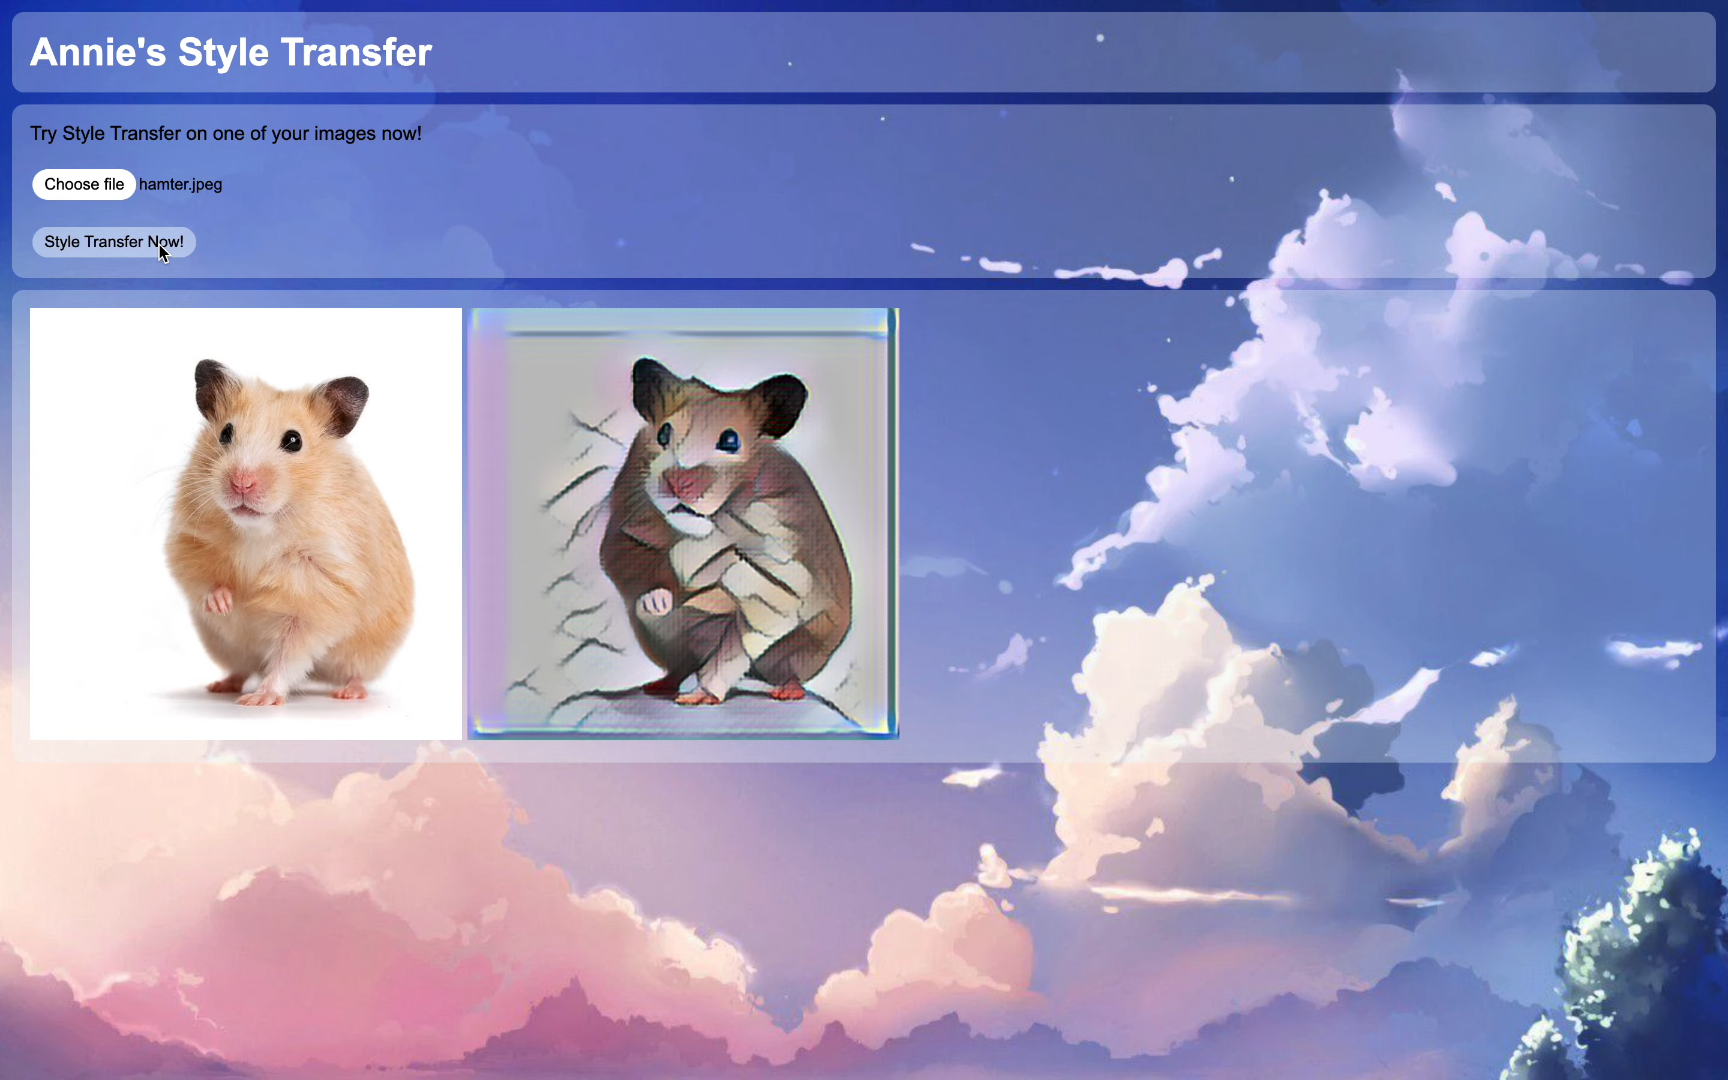
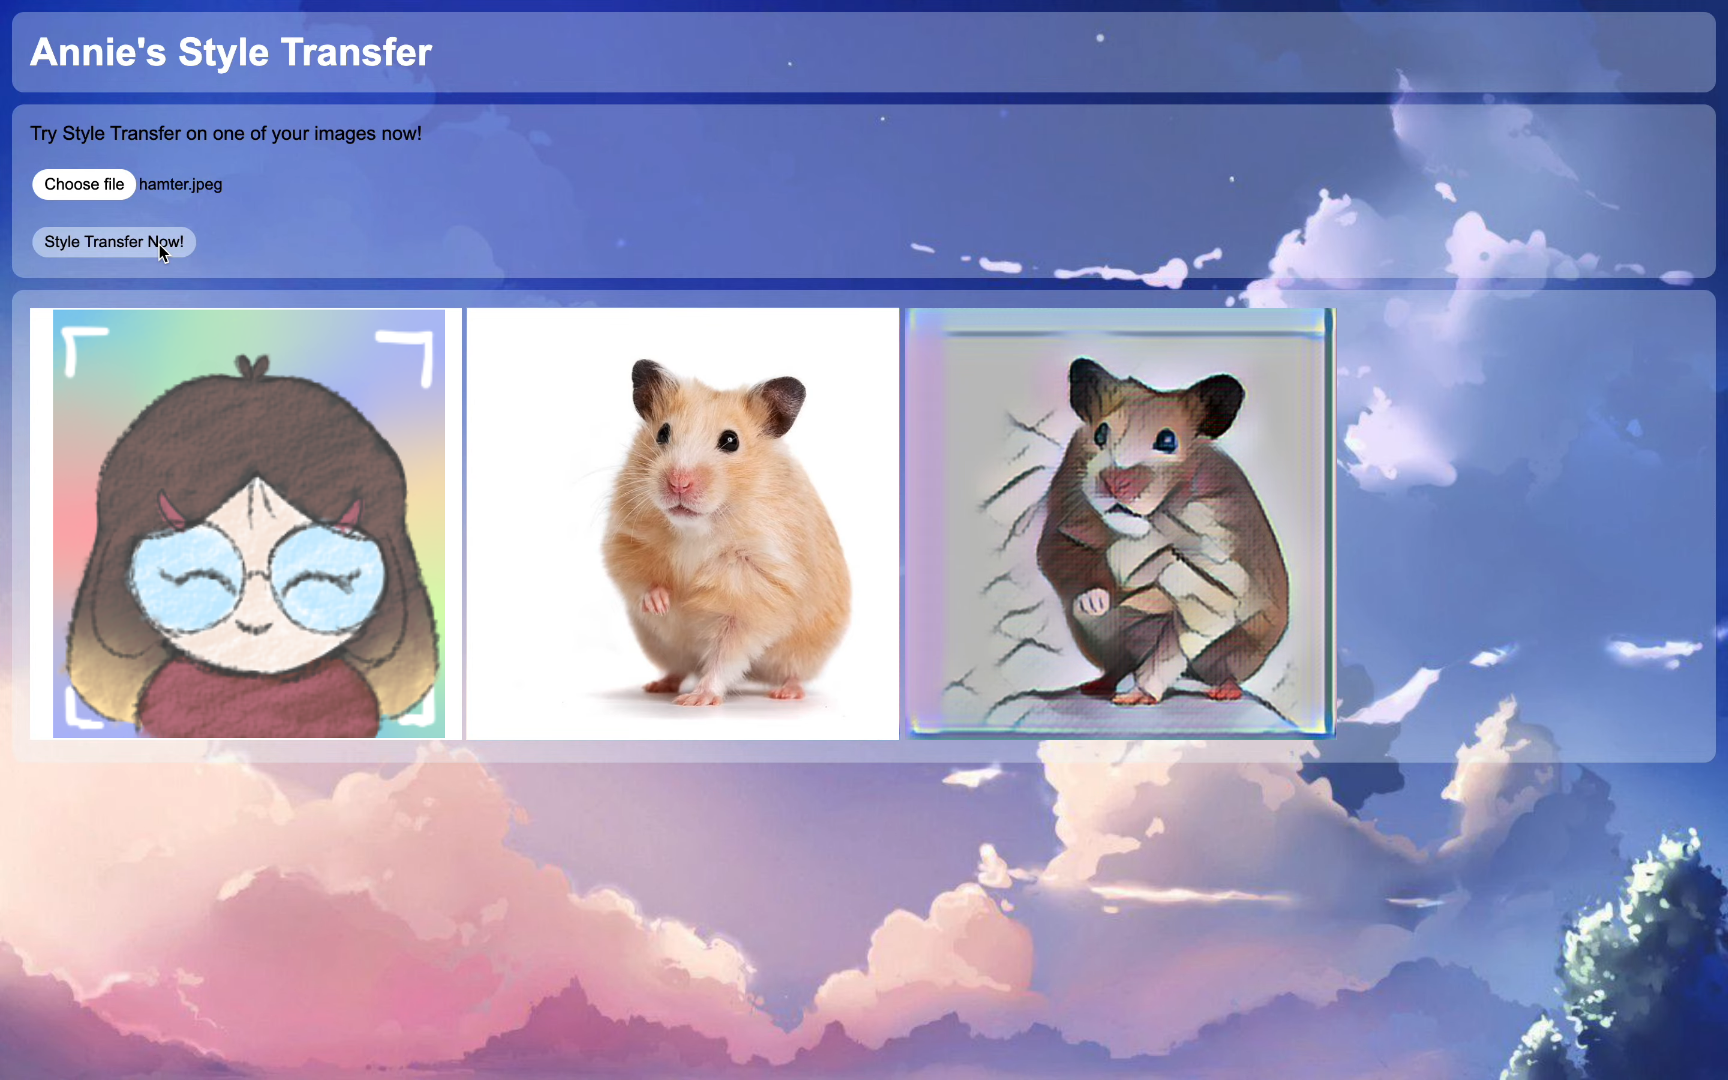
style transfer details

Changed region(s): [[0.0312, 0.275, 0.7812, 0.7028]]

diff --git a/js/app.js b/js/app.js
@@ -16,19 +16,6 @@ let projects = [
         }
 
     },
-    // {
-    //     name: "Food Magazine",
-    //     image: {
-    //             banner: "./images/magazine_banner.png",
-    //             screenshot: "./images/magazine_screenshot.png"
-    //     },
-    //     description: "Food Mag Lorem ipsum dolor sit amet, consectetur adipiscing elit, sed do eiusmod tempor incididunt ut labore et dolore magna aliqua. Ut enim ad minim veniam, quis nostrud exercitation ullamco laboris nisi ut aliquip ex ea commodo consequat. Duis aute irure dolor in reprehenderit in voluptate velit esse cillum dolore eu fugiat nulla pariatur. Excepteur sint occaecat cupidatat non proident, sunt in culpa qui officia deserunt mollit anim id est laborum.",
-    //     tags: "Build back-end and front-end",
-    //     url: { 
-    //         demo: "",
-    //         app: ""
-    //     }
-    // },
     {
         name: "Cattack to Protecc",
         image: {
@@ -58,7 +45,6 @@ let projects = [
             demo: "",
             app: "https://ajanicechen.github.io/Cattack-to-Protecc/"
         }
-
     },
     
     {
@@ -76,7 +62,6 @@ let projects = [
             demo: "https://youtu.be/2OChiWkDt5U",
             app: ""
         }
-
     },
     {
         name: "Animal Crossing Rest:API",
@@ -84,7 +69,10 @@ let projects = [
             banner: "https://www.imore.com/sites/imore.com/files/styles/large/public/field/image/2020/05/acnh-best-villagers.jpg",
             screenshot: ""
         },
-        description: "REST API Lorem ipsum dolor sit amet, consectetur adipiscing elit, sed do eiusmod tempor incididunt ut labore et dolore magna aliqua. Ut enim ad minim veniam, quis nostrud exercitation ullamco laboris nisi ut aliquip ex ea commodo consequat. Duis aute irure dolor in reprehenderit in voluptate velit esse cillum dolore eu fugiat nulla pariatur. Excepteur sint occaecat cupidatat non proident, sunt in culpa qui officia deserunt mollit anim id est laborum.",
+        description:    "" +
+                        "" +
+                        "",
+        tags: "building prototypes, program back-end and connect to database (MongoDB and Postman), program front-end (HTML, CSS and React)",
         url:    { 
             demo: "https://www.youtube.com/shorts/lOf8LnFmU6Y",
             app: ""
@@ -96,7 +84,10 @@ let projects = [
             banner: "./images/s_transfer_banner.png",
             screenshot: "./images/s_transfer_screenshot.png"
         },
-        description: "Style Transfer Lorem ipsum dolor sit amet, consectetur adipiscing elit, sed do eiusmod tempor incididunt ut labore et dolore magna aliqua. Ut enim ad minim veniam, quis nostrud exercitation ullamco laboris nisi ut aliquip ex ea commodo consequat. Duis aute irure dolor in reprehenderit in voluptate velit esse cillum dolore eu fugiat nulla pariatur. Excepteur sint occaecat cupidatat non proident, sunt in culpa qui officia deserunt mollit anim id est laborum.",
+        description:    "With Neural Style Transfer, you can blend two images together: a content image and a style reference image. " +
+                        "The style reference image is with one of my own digital drawings and the content image is one the user provides by uploading. " +
+                        "Blending the two images together results in an output image that looks like the content image, but painted in the style of the style reference image. ",
+        tags: "Conceptualize, training AI, program back-end and front-end (HTML, CSS and JavaScript), building prototype, testing prototype",
         url:    { 
             demo: "https://youtu.be/ewtF3Dbkyvo",
             app: "https://stud.hosted.hr.nl/0999525/PRG8-Week9/"
